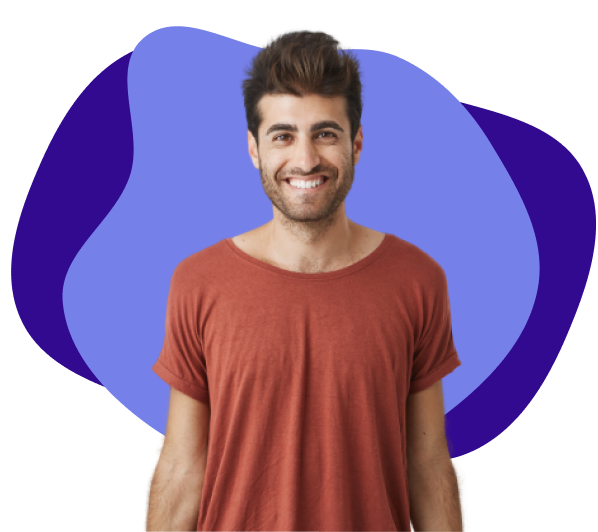
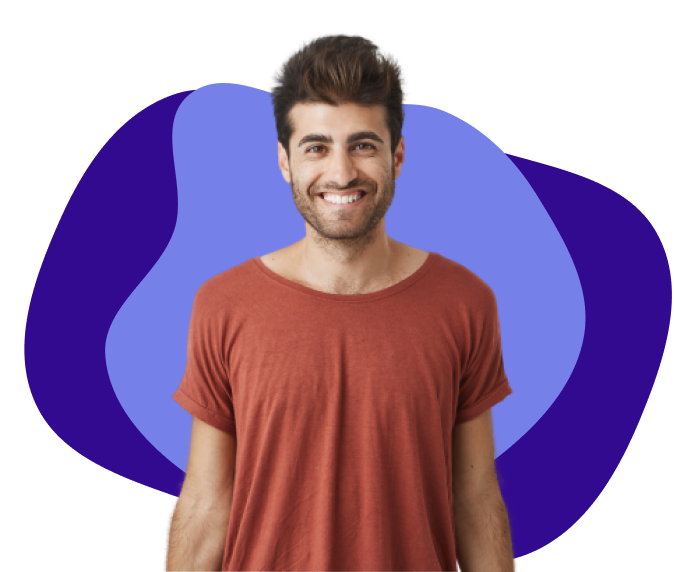
hero responsive

diff --git a/index.html b/index.html
@@ -14,20 +14,20 @@
     <div class="wrapper">
         <header class="header">
             <img src="images/finalLogo.png" width="130" height="39" alt="Logo">  
-            <button class="button">Curriculum</button> 
-            <nav>
+            <nav class="menu">
                 <ul>
                     <li>
-                        <a href="#main">Hola</a>
+                        <a class="is-active" href="#main">Hola</a>
                     </li>
                     <li>
                         <a href="#project">Proyectos</a>
                     </li>
                     <li>
-                        <a href="contacto">Hablemos</a>
+                        <a href="#contact">Hablemos</a>
                     </li>
                 </ul>
             </nav>
+            <button class="button">Curriculum</button> 
         </header>
         <section class="hero" id="main">
             <div class="hero-image">

diff --git a/css/menu.css b/css/menu.css
@@ -1,0 +1,27 @@
+.menu{
+    display: none;
+}
+.menu ul{
+    display: flex;
+    list-style: none;
+    gap: 40px;
+}
+
+.menu ul a {
+    text-decoration: none;
+    color: var(--white);
+    font: var(--button);
+    text-transform: uppercase;
+}
+
+.menu ul a.is-active{
+    color: var(--purple);
+}
+
+/*Responsive design del menú*/
+
+@media screen and (min-width: 768px){
+    .menu{
+        display: block;
+    }
+}

diff --git a/css/hero.css b/css/hero.css
@@ -47,9 +47,16 @@
     }
 }
 
+@media screen and (min-width: 500px){
+    .hero-image img{
+        inline-size: 465px;
+        block-size: 390px;
+    }
+}
+
 @media screen and (min-width: 1024px){
     .hero-image img{
-        inline-size: 565px;
-        block-size: 490px;
+        inline-size: 516px;
+        block-size: 452px;
     }
 }

diff --git a/css/header.css b/css/header.css
@@ -3,4 +3,9 @@
     justify-content: space-between;
     align-items: center;
     block-size: 80px;
+    /*Para que el menú empiece a perseguirnos*/
+    position: sticky;
+    top:0;
+    /*Cuando pasemos por encima de un elemento el header se pone borroso*/
+    backdrop-filter:blur(5px)
 }
